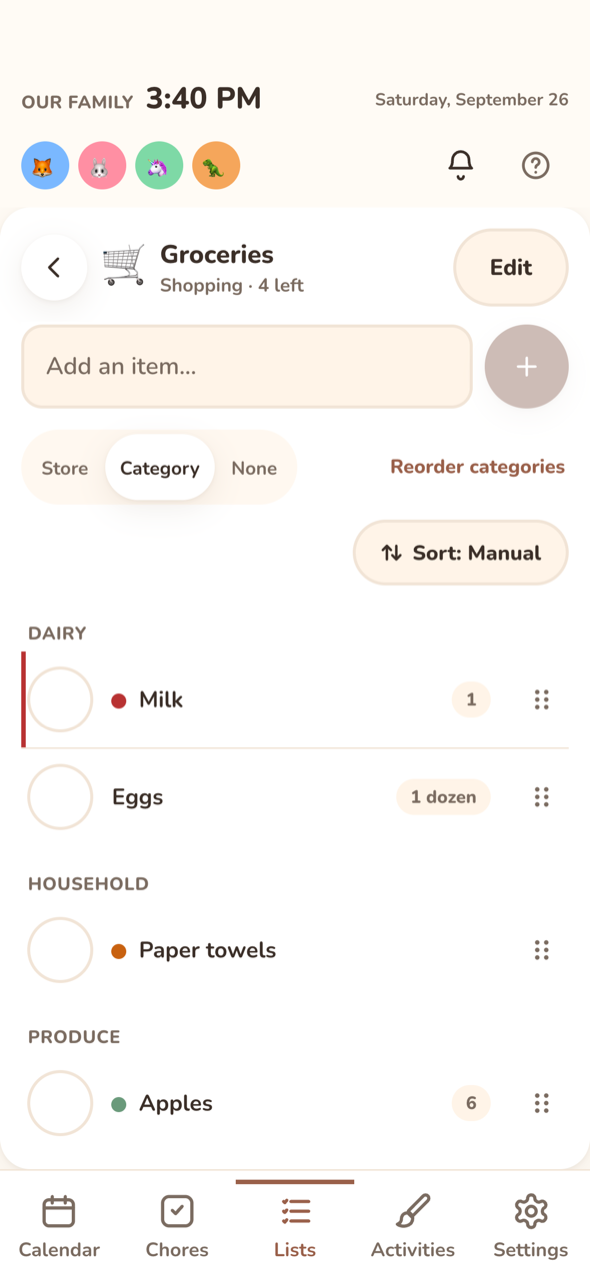
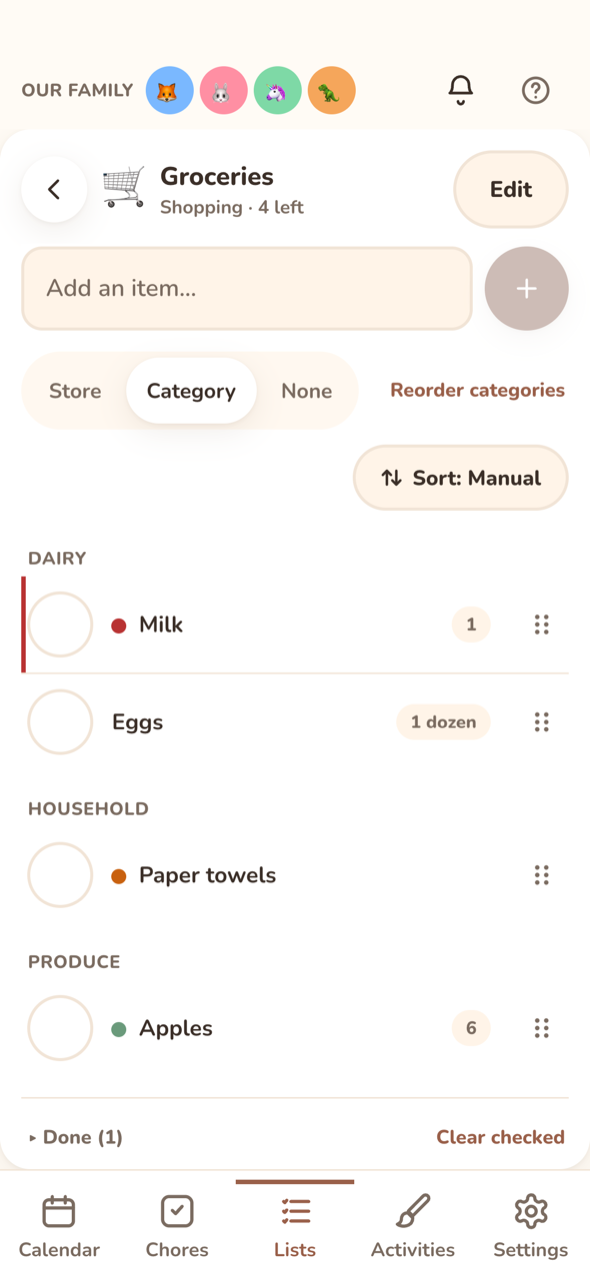
Phones: one header row (family name, people, bell, help; the status bar already shows the time), full-width view switcher, tighter day navigation; the board's filter shares the switcher row. The calendar starts about 120 px higher. Phone screenshots refreshed

diff --git a/web/src/styles.css b/web/src/styles.css
@@ -1057,31 +1057,31 @@ button {
 @media (max-width: 600px) {
   /* ---------- Header ---------- */
   .header-phone {
-    flex-direction: column;
-    align-items: stretch;
-    justify-content: flex-start;
-    gap: 3px;
+    flex-direction: row; align-items: center; gap: 8px;
     min-height: 0;
-    padding: calc(var(--safe-t) + 24px) 14px 6px; /* the status bar needs breathing room above the clock */
+    padding: calc(var(--safe-t) + 10px) 14px 4px;
   }
-  .header-phone-row { display: flex; align-items: center; justify-content: space-between; gap: 10px; min-width: 0; }
-  .header-phone-left { display: flex; align-items: baseline; gap: 8px; min-width: 0; overflow: hidden; flex: 1; }
   .family-name-sm {
     font-size: 0.75rem; font-weight: 800; color: var(--text-dim); text-transform: uppercase; letter-spacing: 0.02em;
-    white-space: nowrap; overflow: hidden; text-overflow: ellipsis; min-width: 0;
+    white-space: nowrap; overflow: hidden; text-overflow: ellipsis; min-width: 0; flex: 0 1 auto;
   }
-  .clock-sm { font-size: 1.25rem; font-weight: 800; font-variant-numeric: tabular-nums; white-space: nowrap; flex-shrink: 0; }
-  .date-text-sm { font-size: 0.71875rem; font-weight: 700; color: var(--text-dim); padding-left: 1px; white-space: nowrap; flex-shrink: 1; min-width: 0; overflow: hidden; text-overflow: ellipsis; text-align: right; }
-  .header-phone-people { margin-top: 6px; }
-  .header-phone .member-filter-row { gap: 6px; padding: 0; flex: 1; min-width: 0; overflow-x: auto; scrollbar-width: none; }
-  .header-phone .member-avatar { width: 36px; height: 36px; font-size: 0.9375rem; border-width: 2px; box-shadow: none; }
+  .header-phone .member-filter-row { gap: 4px; padding: 0; flex: 1; min-width: 0; overflow-x: auto; scrollbar-width: none; }
+  .header-phone .member-avatar { width: 30px; height: 30px; font-size: 0.8125rem; border-width: 2px; box-shadow: none; }
 
   /* ---------- Calendar toolbar ---------- */
-  .calendar-toolbar { padding: 10px 14px; gap: 8px; }
-  .segmented { padding: 3px; gap: 1px; }
-  .segmented button { padding: 7px 10px; font-size: 0.78125rem; min-height: 34px; }
-  .toolbar-nav { gap: 4px; flex-wrap: nowrap; min-width: 0; max-width: 100%; }
+  .calendar-toolbar { padding: 6px 14px 4px; gap: 6px; }
+  /* The view switcher is the one control that should read at a glance: full width, equal tabs. */
+  .calendar-toolbar .segmented { width: 100%; padding: 3px; gap: 1px; }
+  .calendar-toolbar .segmented button { flex: 1; padding: 7px 4px; font-size: 0.8125rem; min-height: 38px; }
+  .toolbar-nav { gap: 4px; flex-wrap: nowrap; min-width: 0; width: 100%; }
+  .toolbar-nav .period-label { flex: 1; }
+  .toolbar-nav .filter-btn { margin-left: auto; }
+  /* The board has no paging, so its only nav control (the filter) shares the switcher's row. */
+  :root[data-view="board"] .calendar-toolbar .segmented { width: auto; flex: 1; min-width: 0; }
+  :root[data-view="board"] .toolbar-nav { width: auto; }
+  :root[data-view="board"] .toolbar-nav:empty { display: none; }
   .icon-btn { width: 44px; height: 44px; } /* smaller than wall, but never below a 44px hit area */
+  .calendar-toolbar .icon-btn { width: 40px; height: 40px; }
   .today-btn { padding: 7px 10px; font-size: 0.8125rem; min-height: 36px; }
   .period-label { font-size: 0.875rem; min-width: 0; white-space: nowrap; overflow: hidden; text-overflow: ellipsis; }
 
@@ -1646,7 +1646,6 @@ button.snap-row:active { transform: scale(0.99); }
    rather than cut to a couple of letters) when the clock leaves it too little room. */
 @media (max-width: 600px) {
   .header-phone .member-filter-row.many .member-avatar { width: 32px; height: 32px; font-size: 0.875rem; }
-  .header-phone-left { container-type: inline-size; }
 }
 @container (max-width: 150px) { .family-name-sm { display: none; } } /* ~6 characters left after the clock */
 
@@ -1699,7 +1698,7 @@ button.snap-row:active { transform: scale(0.99); }
 .board-date { margin-top: 2px; font-weight: 800; color: var(--text-dim); font-size: 0.9375rem; }
 .board-wx-where { margin-top: 8px; font-size: 0.8125rem; font-weight: 700; }
 /* On the board the header hands the clock over to the big card */
-:root[data-view="board"] .header .clock-row, :root[data-view="board"] .header-phone .clock-sm, :root[data-view="board"] .header-phone .date-text-sm { visibility: hidden; } /* keeps the header the same size on every view, so nothing jumps when switching */
+:root[data-view="board"] .header .clock-row { visibility: hidden; } /* keeps the header the same size on every view, so nothing jumps when switching */
 .board-wx-big { font-size: 1.75rem; line-height: 1; margin-right: 6px; vertical-align: middle; }
 .board-wx-temp { font-size: 1.5rem; }
 .board-weather { margin-top: 4px; display: flex; flex-direction: column; gap: 4px; font-weight: 700; }

diff --git a/web/src/App.tsx b/web/src/App.tsx
@@ -602,26 +602,17 @@ function Header({ settings, members, selectedMemberId, isAdmin }: {
   }, [])
   const { time: timeStr, date: dateStr } = useMemo(() => clockStrings(now, settings.timezone), [now, settings.timezone])
 
-  // Phones get a compact one-row-plus-date layout instead of desktop's side-by-side blocks
-  // (see SPEC.md "Touch UI" + the phone plan) — kept as a fully separate render path so the
+  // Phones get one row: family name, people, bell, help. No clock or date: the phone's status bar
+  // shows the time and every view names its date. Kept as a separate render path so the
   // ≥768px wall-iPad markup below is untouched.
   if (isPhone) {
     return (
       <header className="header header-phone">
-        <div className="header-phone-row">
-          <div className="header-phone-left">
-            <span className="family-name-sm">{settings.familyName || 'Our Family'}</span>
-            <span className="clock-sm">{timeStr}</span>
-          </div>
-          <div className="date-text-sm">{dateStr}</div>
-        </div>
-        {/* People and the buttons get their own row: a phone is too narrow to share one with the clock. */}
-        <div className="header-phone-row header-phone-people">
-          <MemberAvatars members={members} selectedMemberId={selectedMemberId} />
-          <div className="header-right">
-            <NotificationBell isAdmin={isAdmin} />
-            <HelpButton />
-          </div>
+        <span className="family-name-sm">{settings.familyName || 'Our Family'}</span>
+        <MemberAvatars members={members} selectedMemberId={selectedMemberId} />
+        <div className="header-right">
+          <NotificationBell isAdmin={isAdmin} />
+          <HelpButton />
         </div>
       </header>
     )
